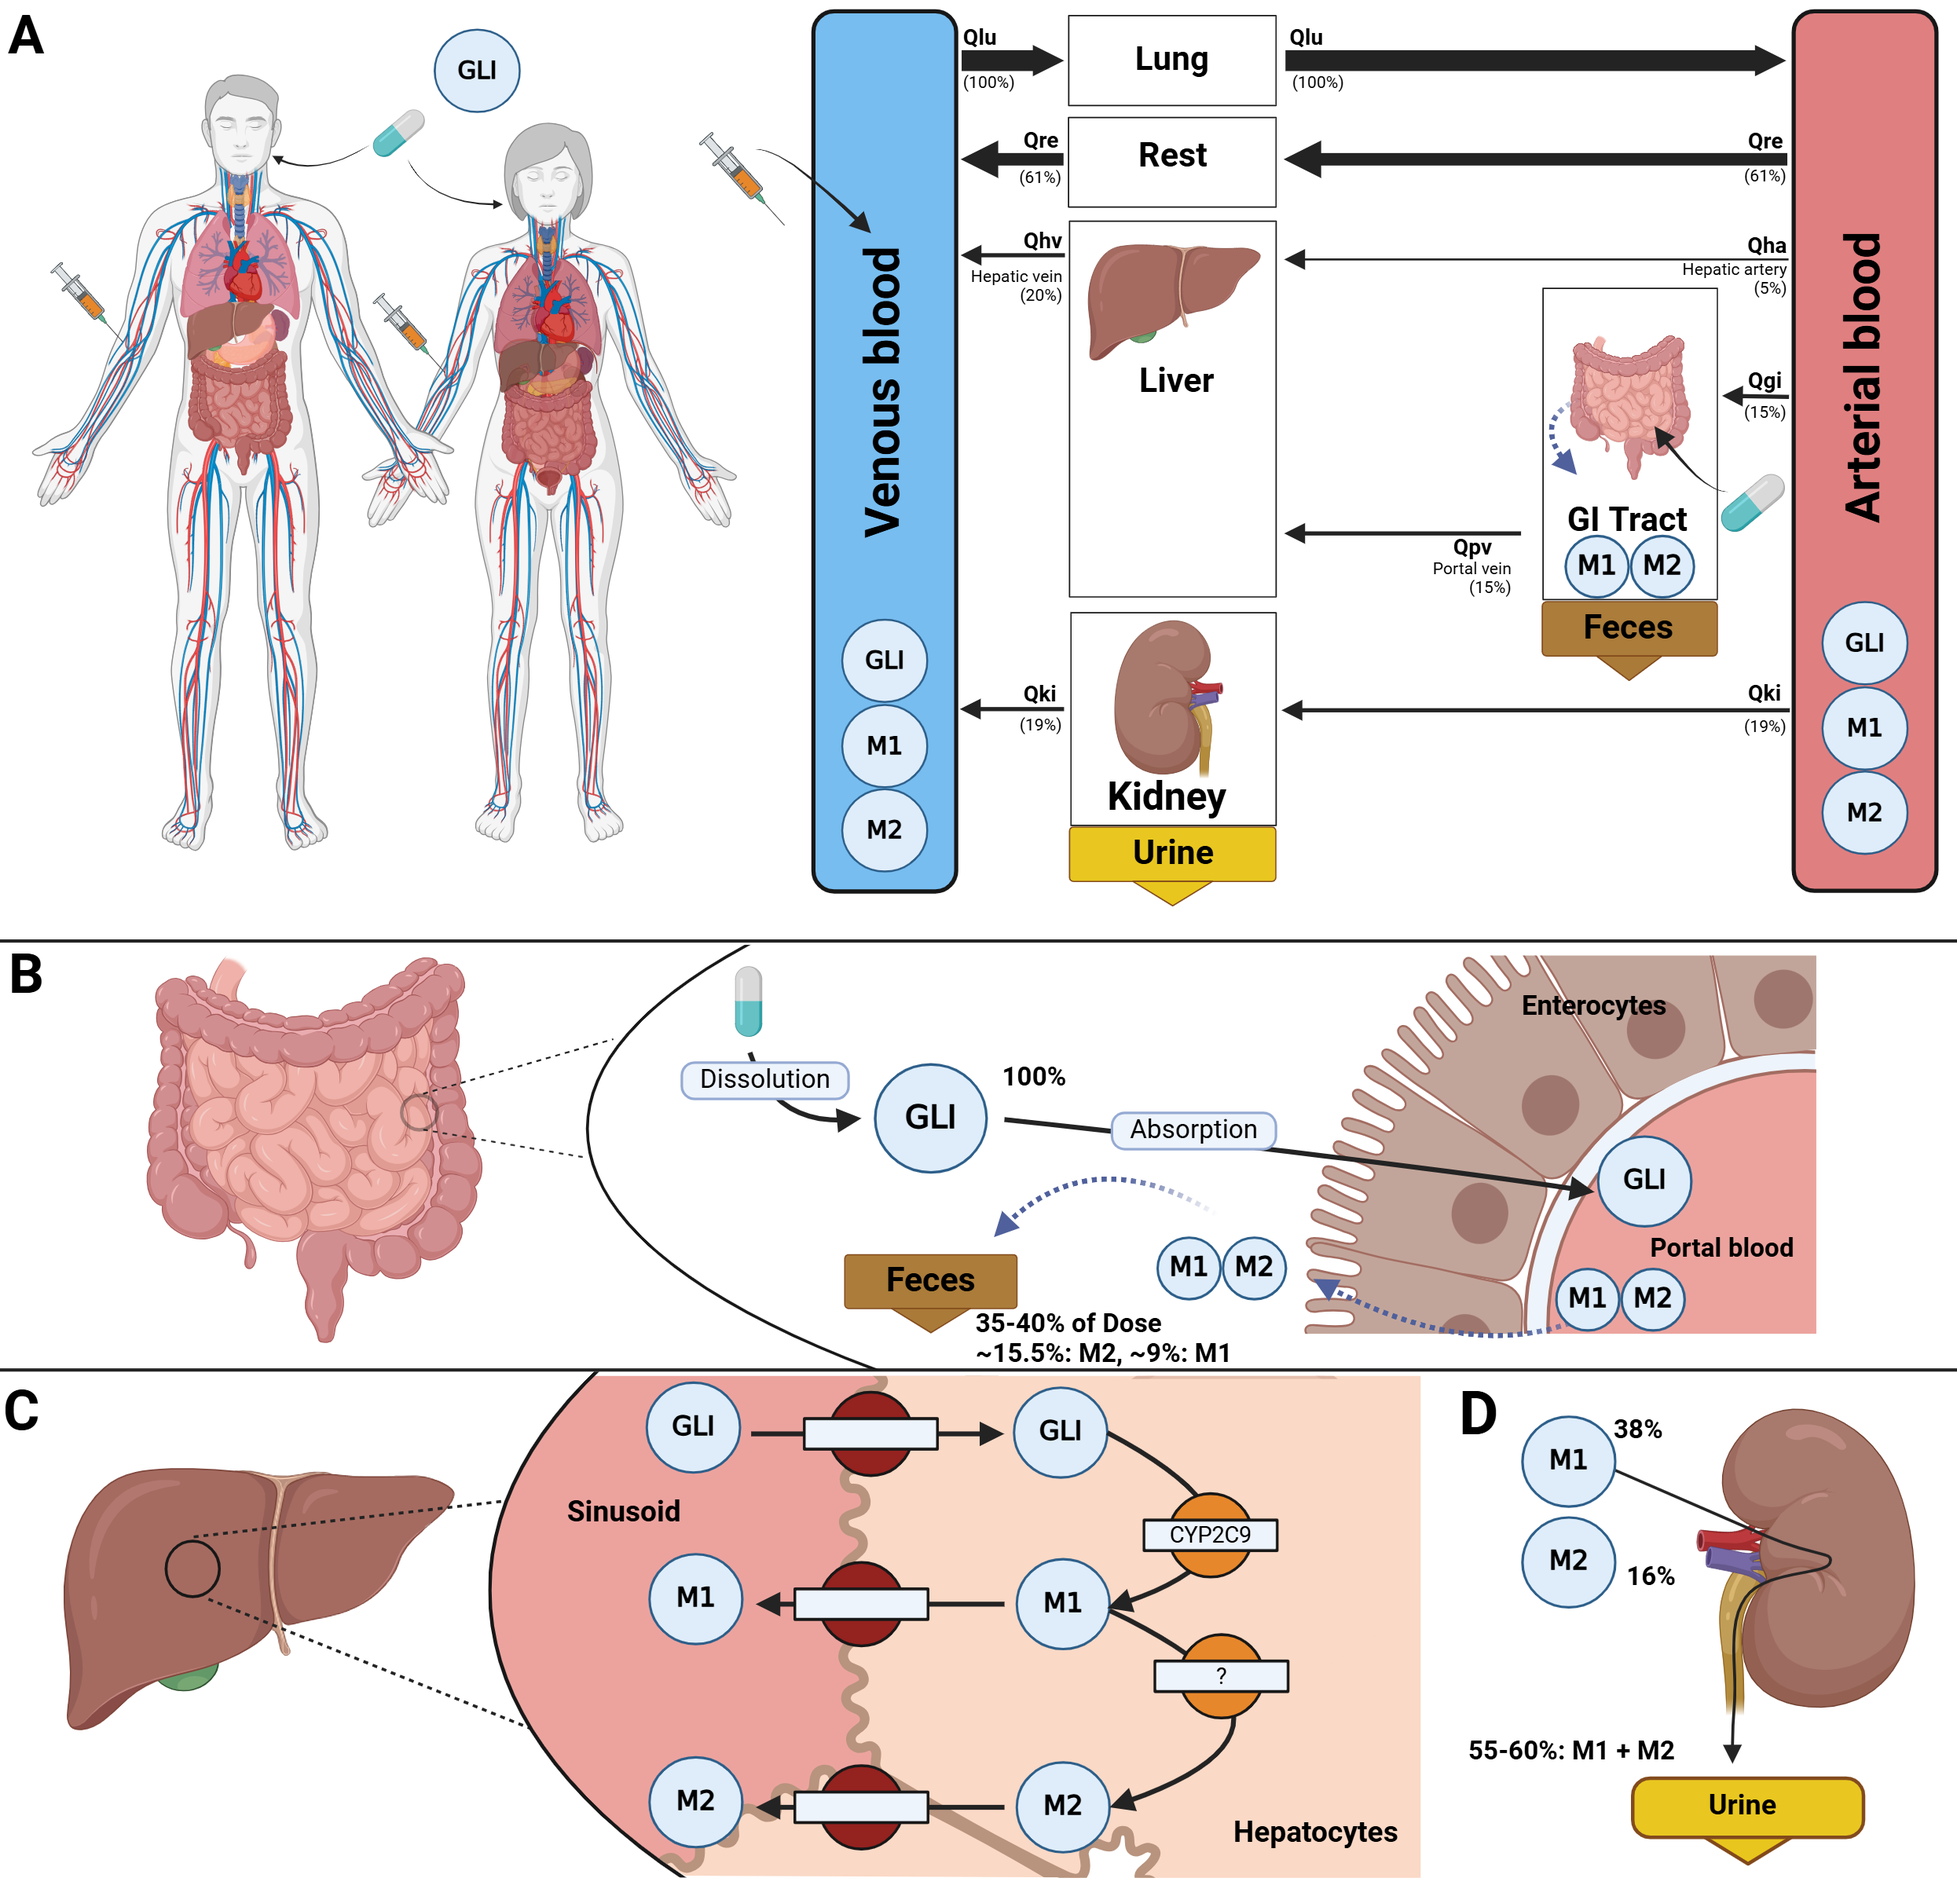
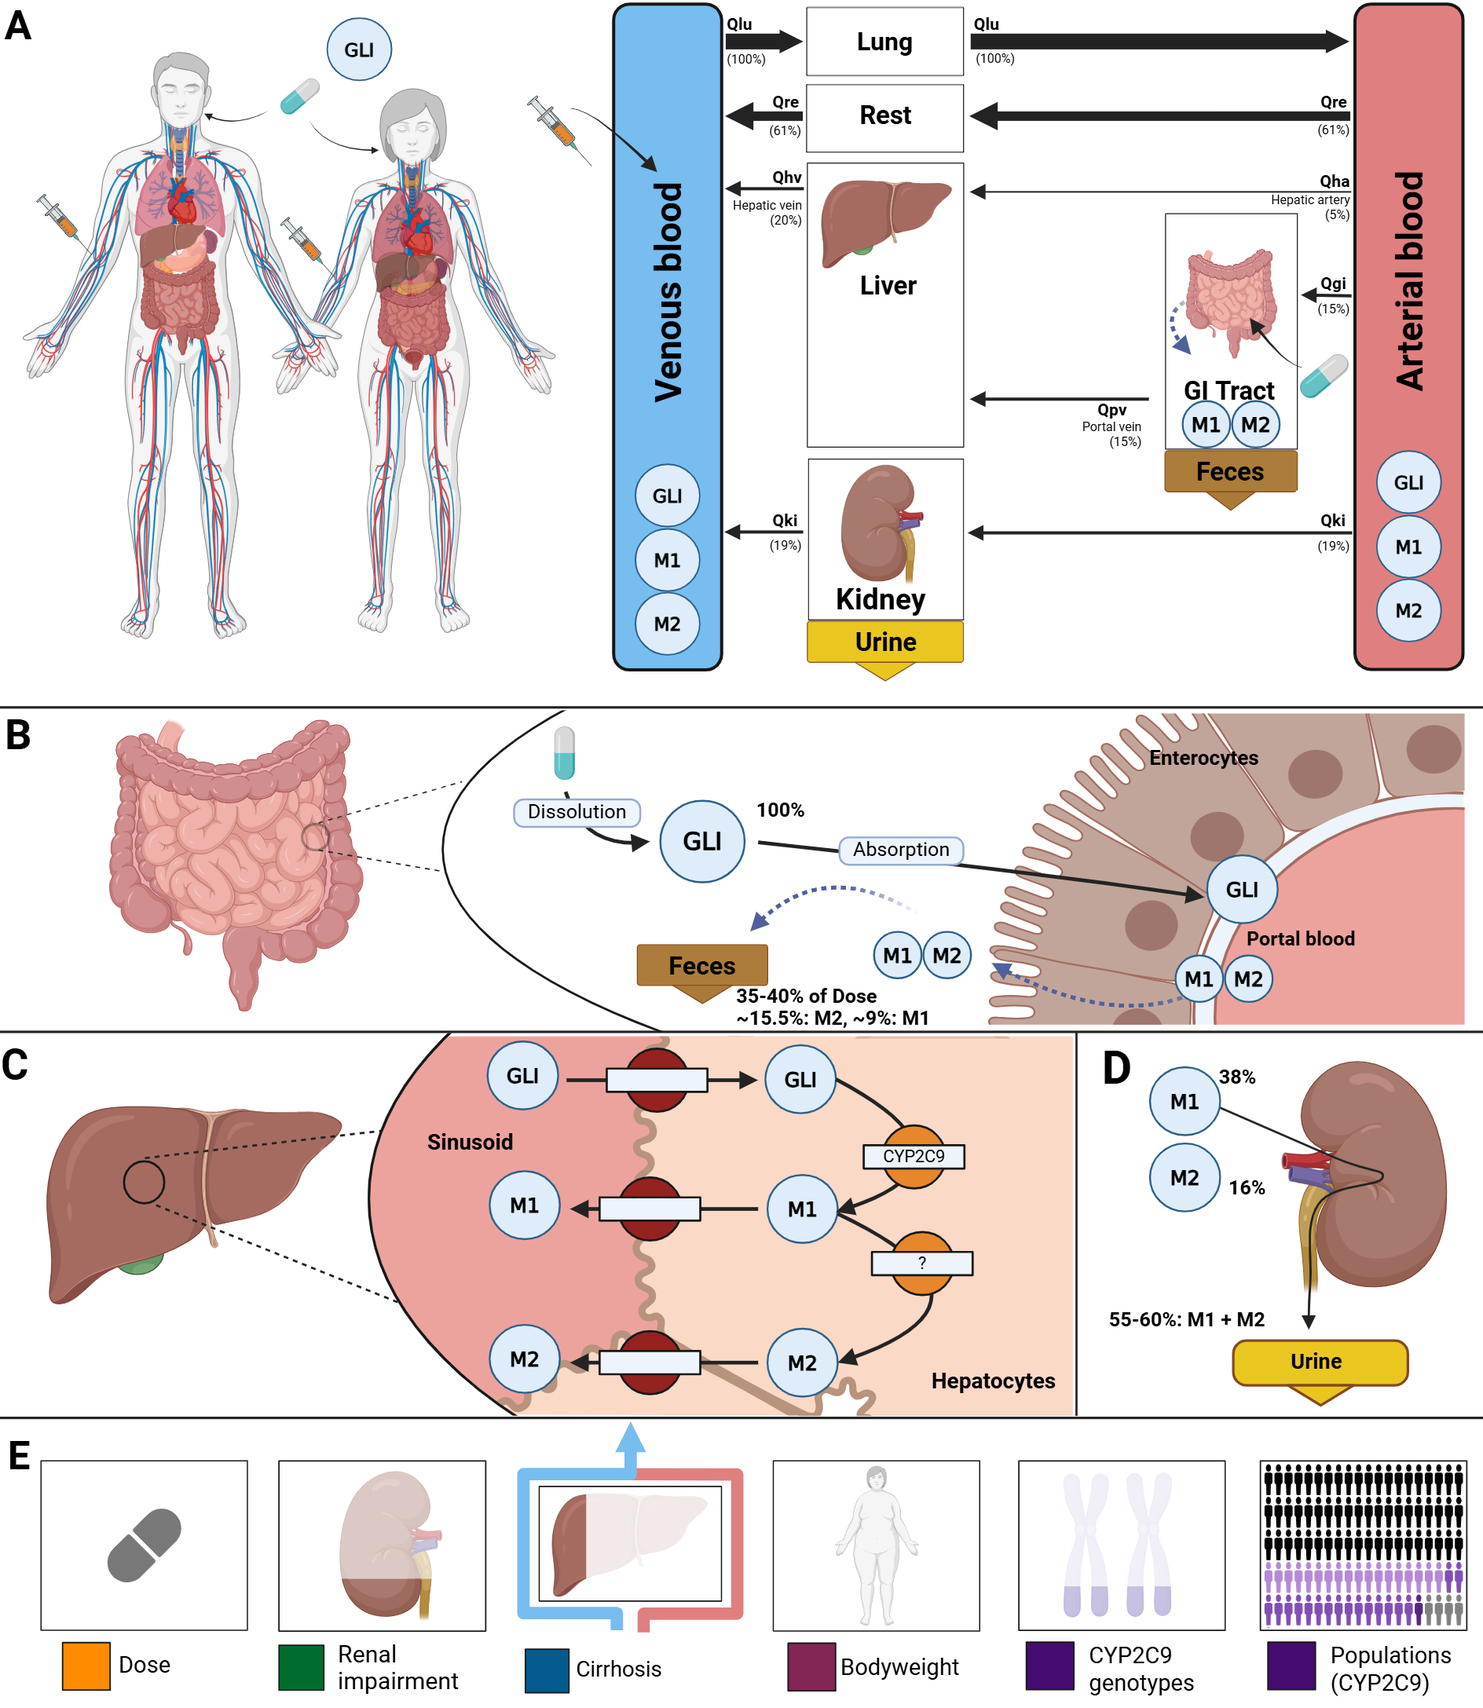
better axis labels & cell names, added cirrhosis and crcl

diff --git a/src/app.py b/src/app.py
@@ -15,7 +15,7 @@ def _():
 
 
 @app.cell
-def _():
+def load_model():
     # load model
     from pathlib import Path
     import roadrunner
@@ -30,75 +30,106 @@ def _():
         "[Cve_m2]": "µM", 
         "Aurine_m1_m2": "µmole"
     }
-    units_factors = units = {
+    units_factors = {
         "time": 1.0/60, 
         "[Cve_gli]": 1000.0, 
         "[Cve_m1]": 1000.0, 
         "[Cve_m2]": 1000.0, 
         "Aurine_m1_m2": 1000.0
     }
-    return r, units_factors
+    labels = {
+        "time": "Time [hr]", 
+        "[Cve_gli]": "Glimepiride Plasma [µM]", 
+        "[Cve_m1]": "M1 Plasma [µM]", 
+        "[Cve_m2]": "M2 Plasma [µM]", 
+        "Aurine_m1_m2": "M1 + M2 Urine [µmole]"
+    }
+    return labels, r, units_factors
 
 
 @app.cell
-def _(mo):
+def settings(mo):
     # settings
-    PODOSE_gli = mo.ui.slider(start=0.0, stop=10.0, value=2.0, label="Glimepiride Dose [mg]")
-    BW = mo.ui.slider(start=40, stop=170.0, value=70.0, label="Bodyweight [kg]")
-    return BW, PODOSE_gli
+    PODOSE_gli = mo.ui.slider(start=0.0, stop=8.0, value=4.0, label="Glimepiride Dose [mg]")
+
+    BW = mo.ui.slider(start=40, stop=170.0, value=75.0, label="Bodyweight [kg]")
+
+    f_cirrhosis = mo.ui.slider(start=0.0, stop=0.95, value=0.0, step=0.01, label="Cirrhosis Degree")
+
+    crcl = mo.ui.slider(start=10, stop=150, value=110, step=5, label="Creatinine Clearance [mL/min]")
+
+    return BW, PODOSE_gli, f_cirrhosis, crcl
 
 
 @app.cell(hide_code=True)
-def _(BW, PODOSE_gli, mo):
+def display(BW, PODOSE_gli, f_cirrhosis, crcl, mo):
     mo.md(
         f"""
     ## Simulation of glimepiride model
-
     {PODOSE_gli}
-
     {BW}
+    {f_cirrhosis}
+    {crcl}
     """
     )
     return
 
 
 @app.cell
-def _(df):
+def gli_plasma(df, labels):
     import plotly.express as px
-    fig1 = px.line(df, x="time", y="[Cve_gli]", title='Glimepiride plasma concentration', labels="test", markers=True)
+    fig1 = px.line(df, x="time", y="[Cve_gli]", title=None, labels=labels, markers=True, range_y=[0, 1])
     fig1
     return (px,)
 
 
 @app.cell
-def _(df, px):
-    fig2 = px.line(df, x="time", y="[Cve_m1]", title='M1 plasma concentration', labels="test", markers=True)
+def m1_plasma(df, labels, px):
+    fig2 = px.line(df, x="time", y="[Cve_m1]", title=None, labels=labels, markers=True, range_y=[0, 0.3])
     fig2
     return
 
 
 @app.cell
-def _(df, px):
-    fig3 = px.line(df, x="time", y="[Cve_m2]", title='M1 plasma concentration', labels="test", markers=True)
+def m2_plasma(df, labels, px):
+    fig3 = px.line(df, x="time", y="[Cve_m2]", title=None, labels=labels, markers=True, range_y=[0, 0.1])
     fig3
     return
 
 
 @app.cell
-def _(df, px):
-    fig4 = px.line(df, x="time", y="Aurine_m1_m2", title='M1 plasma concentration', labels="test", markers=True)
+def m1_m2_urine(df, labels, px):
+    fig4 = px.line(df, x="time", y="Aurine_m1_m2", title=None, labels=labels, markers=True, range_y=[0, 10])
     fig4
     return
 
 
 @app.cell
-def _(BW, PODOSE_gli, r: "roadrunner.RoadRunner", units_factors):
+def calculate_renal_function(crcl):
+    """Convert CrCl to f_renal_function."""
+    normal_crcl = 110.0  # mL/min (eGFR 100 + 10% overestimation)
+    # Calculate f_renal_function for model
+    f_renal_function = min(crcl.value / normal_crcl, 1.0)
+    return f_renal_function
+
+
+@app.cell
+def simulation(
+    BW,
+    PODOSE_gli,
+    f_cirrhosis,
+    f_renal_function,
+    r: "roadrunner.RoadRunner",
+    units_factors,
+):
     # simulation
     import pandas as pd
 
     r.resetAll()
     r.setValue("PODOSE_gli", PODOSE_gli.value)  # [mg]
     r.setValue("BW", BW.value)  # [kg]
+    r.setValue("f_cirrhosis", f_cirrhosis.value)  # [-]
+    r.setValue("KI__f_renal_function", f_renal_function)  # [dimensionless]
     s = r.simulate(start=0, end=60*48, steps=1000)  # [min]
     df = pd.DataFrame(s, columns=s.colnames)
     # unit conversions
